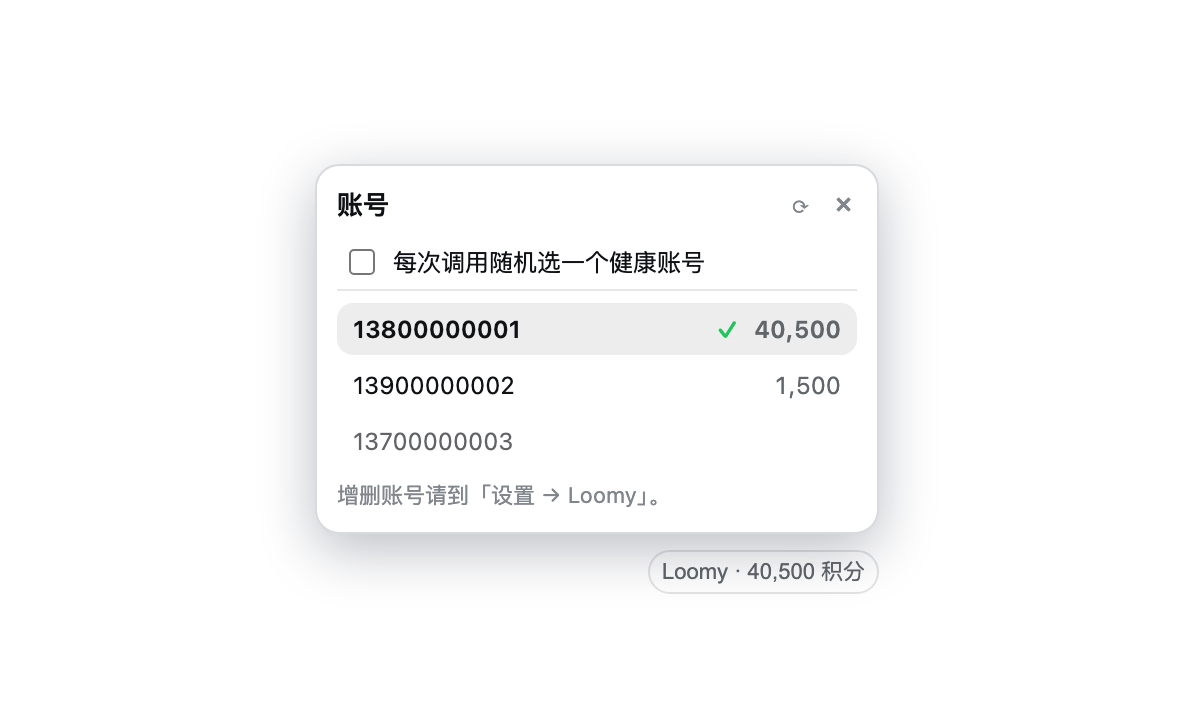
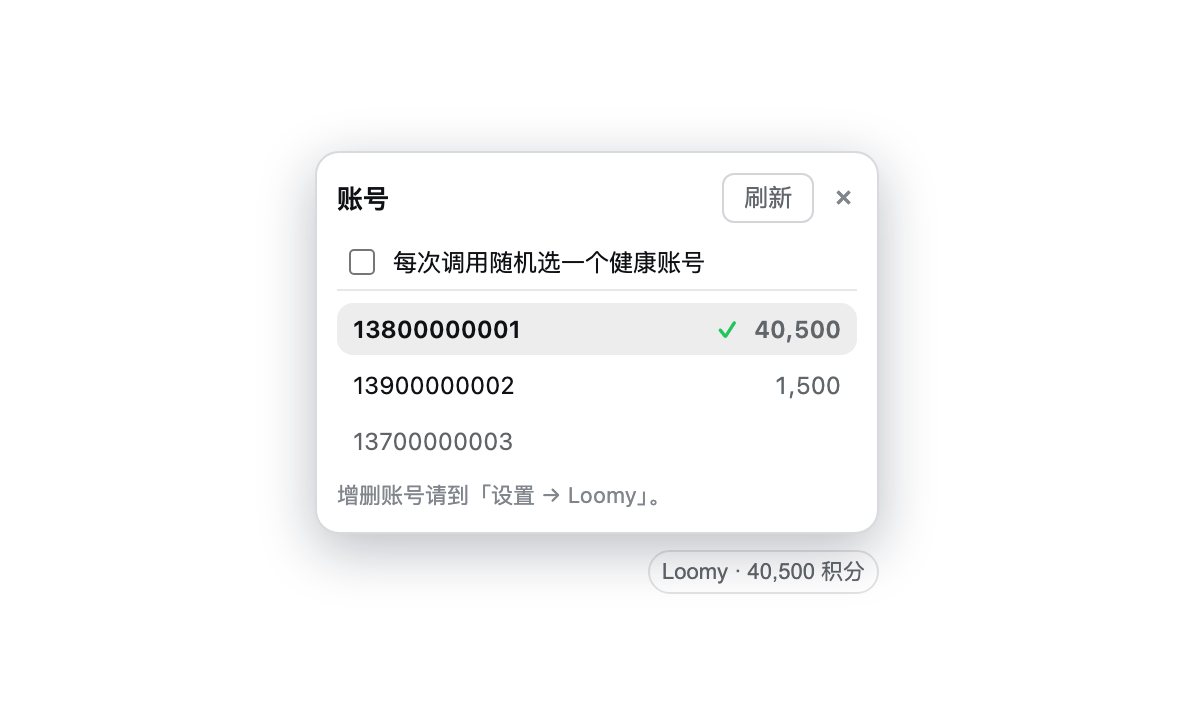
feat(ui): make the drawer refresh a labelled button
An `⟳` glyph at 14px was a ~12px tap target and reads as decoration, not
an action. It is now a 刷新 / Refresh button with padding, border and a
读取中… state while the request is in flight.

Changed region(s): [[0.5858, 0.2139, 0.7092, 0.3056], [0.2775, 0.2444, 0.3392, 0.3056], [0.7092, 0.2139, 0.74, 0.2444]]

diff --git a/src/client/locale.ts b/src/client/locale.ts
@@ -35,6 +35,7 @@ export type LoomyLocaleKey =
   | 'drawer.open'
   | 'drawer.refresh'
   | 'drawer.refreshHint'
+  | 'drawer.refreshing'
   | 'composer.pillBare'
   | 'composer.pillPending'
   | 'composer.pillTitle'
@@ -354,8 +355,9 @@ export const en: Record<LoomyLocaleKey, string> = {
   'drawer.switchFailed': 'Could not switch the account.',
   'drawer.desktopHint': 'Add it in Settings → Loomy to make it selectable.',
   'drawer.open': 'Choose account',
-  'drawer.refresh': 'Refresh points',
+  'drawer.refresh': 'Refresh',
   'drawer.refreshHint': 'Re-read the balances from Loomy (bypasses the cache).',
+  'drawer.refreshing': 'Reading…',
   'composer.pillBare': 'Loomy',
   'composer.pillPending': 'Loomy credits are still loading. Click to refresh.',
   'composer.pillTitle': 'Loomy credits — available {available} (monthly {balance} + today {daily}). Click to refresh.',
@@ -582,8 +584,9 @@ export const zh: Record<LoomyLocaleKey, string> = {
   'drawer.switchFailed': '切换账号失败。',
   'drawer.desktopHint': '到「设置 → Loomy」加入后才能选择。',
   'drawer.open': '选择账号',
-  'drawer.refresh': '刷新积分',
+  'drawer.refresh': '刷新',
   'drawer.refreshHint': '重新从 Loomy 读取余额（跳过缓存）。',
+  'drawer.refreshing': '读取中…',
   'composer.pillBare': 'Loomy',
   'composer.pillPending': 'Loomy 积分还在读取中，点击可重试。',
   'composer.pillTitle': 'Loomy 积分：可用 {available}（包月剩余 {balance} + 今日额度 {daily}）。点击可刷新。',

diff --git a/src/client/styles.ts b/src/client/styles.ts
@@ -49,16 +49,22 @@ export const CARD_CSS = `
 .loomy-drawer-head { display: flex; align-items: center; gap: 8px; }
 .loomy-drawer-refresh {
   margin-left: auto;
-  border: none;
+  padding: 3px 10px;
+  border: 1px solid var(--dsw-alias-border-l2, rgba(15, 23, 42, 0.18));
+  border-radius: 6px;
   background: transparent;
-  color: var(--dsw-alias-label-tertiary, #6b7280);
-  font-size: 14px;
-  line-height: 1;
+  color: var(--dsw-alias-label-secondary, #4b5563);
+  font: inherit;
+  font-size: 12px;
+  line-height: 1.4;
   cursor: pointer;
-  padding: 0 2px;
+  white-space: nowrap;
 }
-.loomy-drawer-refresh:disabled { opacity: 0.5; cursor: default; }
-.loomy-drawer-refresh:hover:not(:disabled) { color: var(--dsw-alias-label-primary, #1f2328); }
+.loomy-drawer-refresh:hover:not(:disabled) {
+  background: var(--dsw-alias-bg-layer-2, rgba(127, 127, 127, 0.1));
+  color: var(--dsw-alias-label-primary, #1f2328);
+}
+.loomy-drawer-refresh:disabled { opacity: 0.55; cursor: default; }
 .loomy-drawer-close {
   border: none;
   background: transparent;

diff --git a/src/client/index.ts b/src/client/index.ts
@@ -43,7 +43,7 @@ export const SETTINGS_TAB_ID = 'loomy'
 /** Bumped when the client half's shape changes; printed at mount. */
 export { normalizeImportDocument } from './api.js'
 
-export const CLIENT_BUILD_MARKER = 'settings-section+pill-near-model-v3+login-v4+multi-account-v5+pool-v14+ui-v29'
+export const CLIENT_BUILD_MARKER = 'settings-section+pill-near-model-v3+login-v4+multi-account-v5+pool-v14+ui-v30'
 
 /** Slot-entry identity of the composer credit readout. */
 export const COMPOSER_PILL_ID = 'dsh-connect-loomy-composer-pill'

diff --git a/src/client/components/AccountDrawer.tsx b/src/client/components/AccountDrawer.tsx
@@ -154,9 +154,8 @@ export function AccountDrawer({ t, csrfToken, creditsByAccount, onClose, onChang
           disabled={refreshing}
           onClick={() => void refresh()}
           title={t('drawer.refreshHint')}
-          aria-label={t('drawer.refresh')}
         >
-          {refreshing ? '⋯' : '⟳'}
+          {refreshing ? t('drawer.refreshing') : t('drawer.refresh')}
         </button>
         <button type="button" className="loomy-drawer-close" onClick={onClose} aria-label={t('drawer.close')}>
           ×
